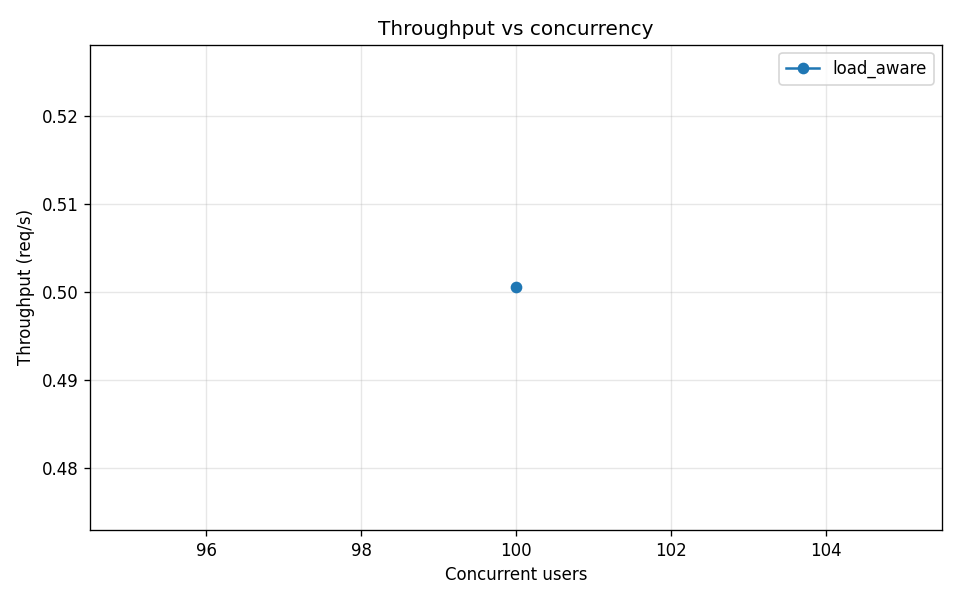
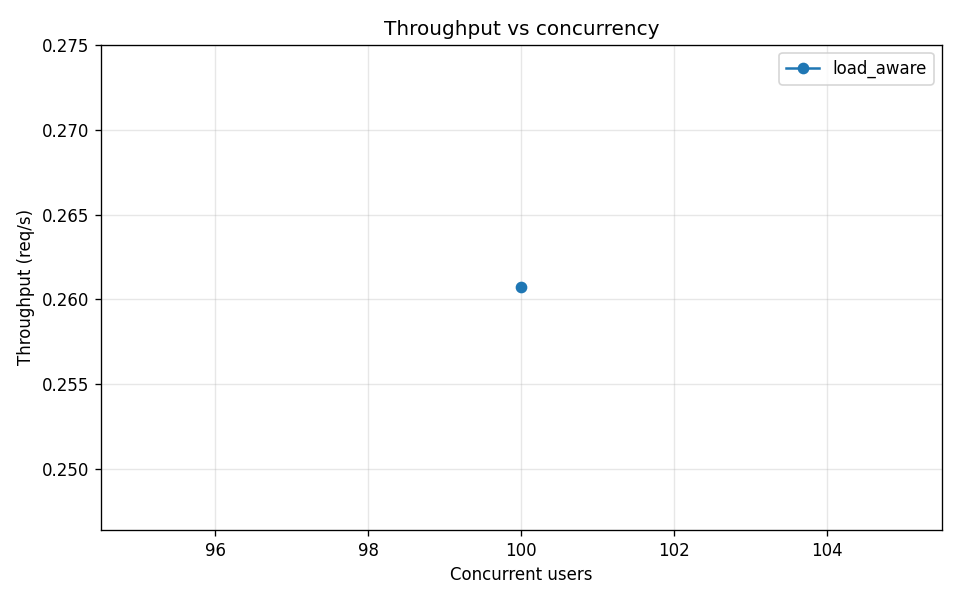
benchmark 100 user

diff --git a/scripts/benchmark.py b/scripts/benchmark.py
@@ -123,11 +123,11 @@ def _fire_one(client: httpx.Client, i: int) -> RequestResult:
     # any benchmark whose offered load exceeds total slot capacity reports
     # massive errors even though the server is healthy.
     #
-    # Budget: 10 attempts with exponential backoff starting at 0.1 s
-    # gives ~ 0.1+0.2+0.4+0.8+1.6+3.2+6.4+12.8+25.6 = 51 s total before
-    # giving up -- enough to drain a GPU-bound queue at ~ 5 rps.
-    max_attempts = 10
-    backoff = 0.1
+    # Budget: 11 attempts with exponential backoff starting at 0.2 s
+    # gives ~ 0.2+0.4+0.8+1.6+3.2+6.4+12.8+25.6+51.2 = 102 s total before
+    # giving up -- enough to drain a GPU-bound queue with real Qwen inference.
+    max_attempts = 11
+    backoff = 0.2
     last_status = 0
     last_worker = "?"
     for attempt in range(max_attempts):
